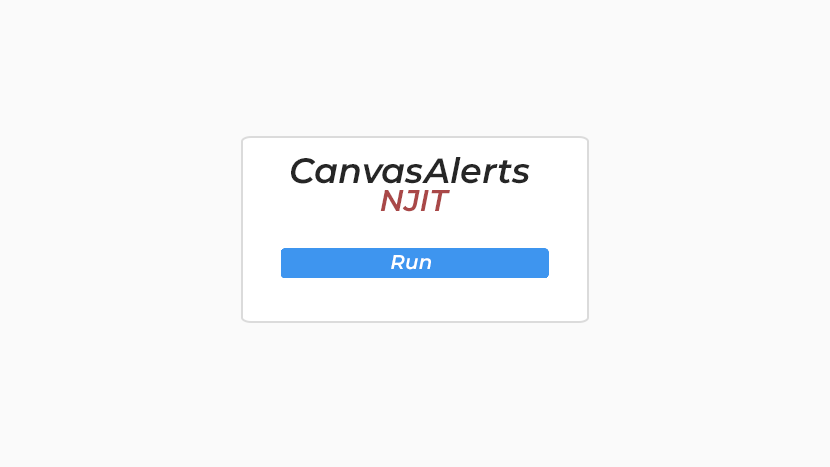
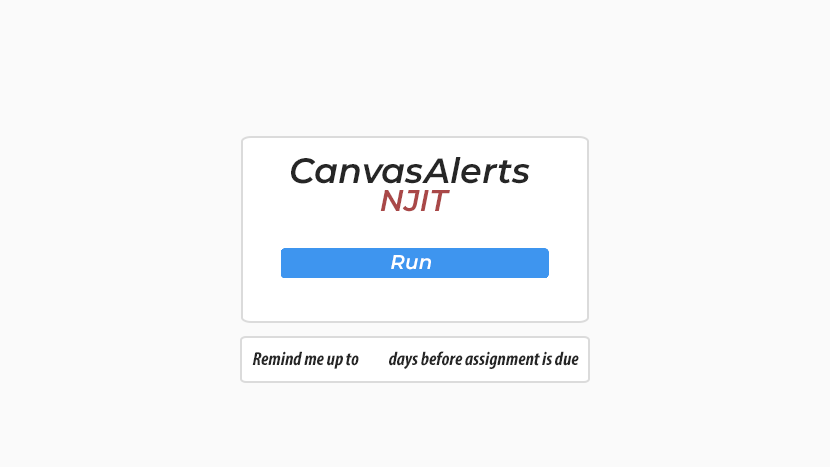
saves time delta

Changed region(s): [[0.2711, 0.7195, 0.7229, 0.8394]]

diff --git a/functions.py b/functions.py
@@ -51,6 +51,14 @@ options.headless = True
 options.detach = True
 
 global driver
+global timeDelta
+
+
+
+def setDelta(delta):
+    global timeDelta
+    timeDelta = int(delta)
+
 
 def setDriver():
     global driver
@@ -210,8 +218,8 @@ def assignmentLinks():
 
 
 
-    print("COURSELIST")
-    print(coursesList)
+   ### print("COURSELIST")
+   ### print(coursesList)
 
 
     
@@ -225,13 +233,13 @@ def assignmentLinks():
             #time.sleep(5)
             assignmentTab = driver.find_element_by_class_name("assignments")
             assignmentTab.click()
-            print(course + "goes through")
+            ###print(course + "goes through")
 
         except(NoSuchElementException, StaleElementReferenceException) as e:
             continue
         try:
             element = WebDriverWait(driver, 4).until(EC.presence_of_element_located((By.ID, "assignment_group_upcoming_assignments")))
-            print("why is this working now: " + course)
+            ###print("why is this working now: " + course)
         except(TimeoutException)as e:
             continue
 
@@ -241,10 +249,10 @@ def assignmentLinks():
         assignmentPageSoup = BeautifulSoup(driver.page_source, 'html.parser')
         upA = BeautifulSoup(str(assignmentPageSoup.find("div", {"id": "assignment_group_upcoming_assignments"})), 'html.parser')
 
-        print("\n")
-        print(course)
-        print(upA)
-        print("\n")
+        ###print("\n")
+        ###print(course)
+        ####print(upA)
+        ###print("\n")
         
         upAList = upA.find_all("div", {"id": re.compile('^assignment_\d+')})#assignment_97613 #assignment_[0-9]{3,5}
 
@@ -341,7 +349,7 @@ def sendAlertIfDue(assignmentList):
         print(assignment)
 
     for assignment in assignmentList:
-        if((assignment.delta) <= timedelta(days=7)):
+        if((assignment.delta) <= timedelta(days=timeDelta)):
             time.sleep(1)
 
 

diff --git a/UI.py b/UI.py
@@ -245,8 +245,17 @@ def phoneSetUpPage():
  #   runScript()
 
 
-def runScript():
+def runScript(delta):
     global elems
+
+
+    file = open("delta.txt", 'w')
+    delta = file.write(str(delta))
+    file.close()
+
+
+    funct.setDelta(delta)
+    
     print("SCRIPT IS RUNNING")
     funct.setDriver()
     funct.setCreds()
@@ -266,6 +275,13 @@ def confirmLogout():
 def runPage():
     global BG
     global elems
+    delta = 7
+
+    if(path.exists("delta.txt")):
+        file = open("delta.txt", 'r')
+        delta = file.read()
+        file.close()
+    
     
     destroyElems()
         
@@ -273,7 +289,12 @@ def runPage():
     BG.configure(image = runBG)
     BG.image = runBG
     BG.place(x=-5,y=-5)
-    runButton = tk.Button(sroot, command =lambda: runScript(), image = runImg)
+
+    daysBefore = tk.Entry(sroot, font='Helvetica 14 bold', borderwidth = 0,highlightthickness = 0,bg = '#ffffff', fg = '#a94848') #636363
+    daysBefore.insert(0, str(delta))
+    daysBefore.place(relx=0.44, rely=0.735,relwidth=0.025, relheight=0.06)
+    
+    runButton = tk.Button(sroot, command =lambda: runScript(daysBefore.get()), image = runImg)
     runButton.place(relx=0.345, rely=0.535,relwidth=0.305, relheight=0.04)
 
     logoutButton = tk.Button(sroot, command =lambda: confirmLogout(), image = logoutImg)
@@ -281,6 +302,7 @@ def runPage():
 
     elems.append(runButton)
     elems.append(logoutButton)
+    elems.append(daysBefore)
 
     
 
